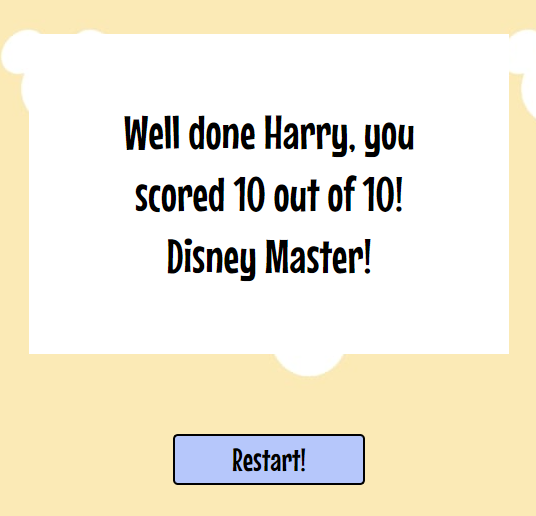
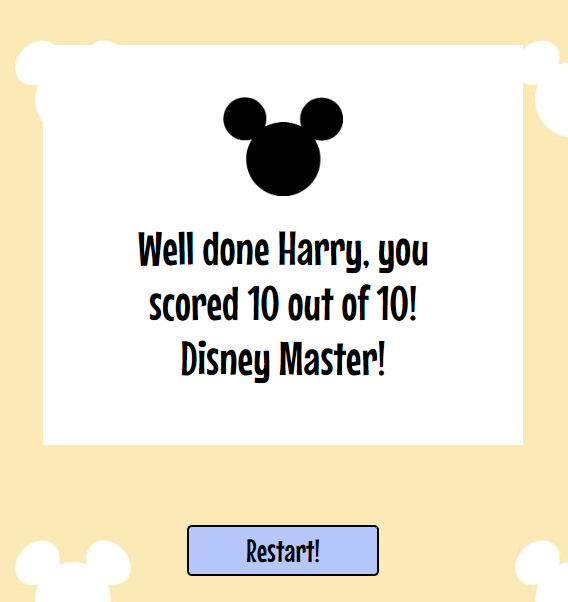
docs: update results section images and text in README.md

diff --git a/README.md b/README.md
@@ -126,7 +126,7 @@ Welcome to the Disney Movie Quiz! This online quiz is built using HTML, CSS and 
 ### Results Section
 
   - The Results Section will automatically show when the user has finished answering all 10 questions.
-  - The results show as a paragraph with a score marked out of the total questions. The score is calculated through JavaScript and increments each time an answer is selected. There are 3 possible paragraphs of text to return, depending on the score the user received.
+  - The results show as an image and a paragraph with a score marked out of the total questions. The score is calculated through JavaScript and increments each time an answer is selected. There are 3 possible paragraphs of text to return, depending on the score the user received.
   - After the results div, there is a restart button. This reloads the quiz and resets all scores and the username.
 
 ![Results Section](assets/documentation/results.png)
